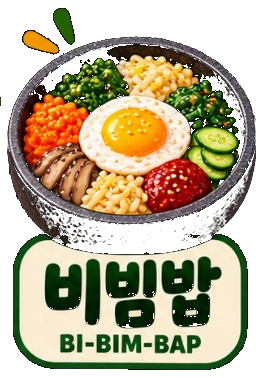
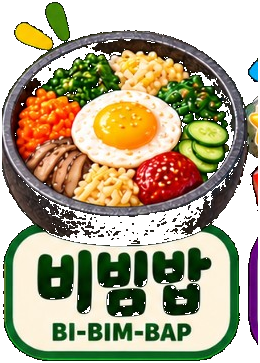
Replace gochujang with japchae and keep the stickers fully visible.

diff --git a/roulette.html b/roulette.html
@@ -113,10 +113,10 @@ body::before{
   position:absolute; left:0; width:max-content;
   transform:translate(-50%,-50%);
 }
-.pin.food{top:30%}
+.pin.food{top:42%}
 .pin.food img{
-  width:86px; height:auto; display:block;
-  filter:drop-shadow(0 3px 2px rgba(48,32,24,.22));
+  width:70px; height:auto; display:block; object-fit:contain;
+  filter:drop-shadow(0 2px 2px rgba(48,32,24,.18));
 }
 .lacquer{
   position:absolute; inset:4.2%; border-radius:50%; z-index:5; pointer-events:none;
@@ -211,8 +211,8 @@ body::before{
   transition:opacity .32s ease, transform .32s ease;
 }
 .result-in.hide{opacity:0; transform:translateY(6px)}
-.result-art{width:150px; height:186px}
-.result-art img,.modal-art img,.menu-art img{width:100%; height:100%; display:block; object-fit:contain}
+.result-art{width:170px; height:auto}
+.result-art img,.modal-art img,.menu-art img{width:100%; height:auto; display:block; object-fit:contain}
 .result-kicker{font-size:10px; letter-spacing:.18em; color:#d9c9b7; font-weight:800; margin-top:4px}
 .result h2{font-family:"Noto Serif KR",serif; font-size:34px; margin:4px 0 0; letter-spacing:-.03em; font-weight:800}
 .result .pt{font-size:13px; color:#f2d69c; font-weight:700; margin-top:2px}
@@ -259,7 +259,7 @@ body::before{
   background:#efe4cf; z-index:0;
 }
 .modal-top{display:flex; gap:16px; align-items:center; position:relative; z-index:1}
-.modal-art{width:168px; height:210px; flex:none}
+.modal-art{width:200px; height:auto; flex:none}
 .modal.show .modal-art{animation:rise .5s cubic-bezier(.16,1,.3,1) both}
 .modal-label{font-size:10px; letter-spacing:.16em; color:var(--red); font-weight:800}
 .modal h2{font-family:"Noto Serif KR",serif; font-size:40px; margin:2px 0 0; letter-spacing:-.03em; line-height:1; font-weight:800}
@@ -316,8 +316,8 @@ body::before{
   .title{font-size:22px}
   .stage{margin-top:2px}
   .wheelbox{width:min(100%, calc(100dvh - 230px), 420px)}
-  .pin.food{top:31%}
-  .pin.food img{width:58px}
+  .pin.food{top:42%}
+  .pin.food img{width:52px}
   .hub{width:64px; height:64px}
   .hub strong{font-size:13px}
   .spin{width:100%; min-width:0; margin-top:10px; padding:14px 16px}
@@ -327,7 +327,7 @@ body::before{
   .explain{font-size:12px}
   .menu,.footer{display:none}
   .modal-top{align-items:flex-start}
-  .modal-art{width:110px; height:140px}
+  .modal-art{width:150px; height:auto}
   .modal h2{font-size:28px}
   .modal-card{padding:18px}
 }
@@ -410,10 +410,10 @@ const foods=[
  {key:"kimchi",name:"KIMCHI",ko:"김치",pron:"김-치 · KIM-CHI",pt:"Um dos símbolos da mesa coreana.",desc:"Vegetais temperados e fermentados. O kimchi é um alimento tradicional que acompanha a refeição coreana e representa uma das culturas de fermentação mais conhecidas da Coreia.",prize:"Brinde"},
  {key:"gimbap",name:"GIMBAP",ko:"김밥",pron:"김-밥 · GIM-BAP",pt:"Arroz e ingredientes enrolados em alga.",desc:"Arroz e diversos ingredientes são enrolados em gim (alga) e cortados em rodelas. É uma comida prática, colorida e muito popular na vida cotidiana coreana.",prize:"Brinde"},
  {key:"mandu",name:"MANDU",ko:"만두",pron:"만-두 · MAN-DU",pt:"O tradicional dumpling coreano.",desc:"Mandu são dumplings recheados, preparados de diferentes maneiras, como cozidos, no vapor ou grelhados. São encontrados tanto em refeições quanto em momentos festivos.",prize:"Brinde"},
- {key:"gochujang",name:"GOCHUJANG",ko:"고추장",pron:"고-추-장 · GO-CHU-JANG",pt:"Pasta fermentada de pimenta vermelha.",desc:"Um dos tradicionais jang coreanos. Feito com ingredientes fermentados, o gochujang acrescenta sabor, cor e umami a muitos pratos coreanos.",prize:"Kit"},
+ {key:"japchae",name:"JAPCHAE",ko:"잡채",pron:"잡-채 · JAP-CHAE",pt:"Macarrão de batata-doce com legumes.",desc:"Fios de batata-doce salteados com legumes. É um prato colorido, servido tanto no dia a dia quanto em ocasiões especiais.",prize:"Brinde"},
  {key:"tteokbokki",name:"TTEOKBOKKI",ko:"떡볶이",pron:"떡-뽀-끼 · TTEOK-BBO-KKI",pt:"O famoso snack coreano de arroz.",desc:"Bolinhos de arroz cozidos em um molho marcante. É um dos alimentos de rua mais conhecidos da Coreia e ganhou popularidade internacional.",prize:"Brinde"},
  {key:"bulgogi",name:"BULGOGI",ko:"불고기",pron:"불-고-기 · BUL-GO-GI",pt:"Carne marinada e grelhada ao estilo coreano.",desc:"Fatias finas de carne são marinadas e cozidas ou grelhadas com um tempero à base de molho de soja e outros ingredientes. É um dos pratos coreanos mais conhecidos no exterior.",prize:"Kit"},
- {key:"bibimbap",name:"BIBIMBAP",ko:"비빔밥",pron:"비-빔-밥 · BI-BIM-BAP",pt:"Arroz misturado com diversos ingredientes.",desc:"Arroz servido com vegetais variados, ingredientes complementares e, muitas vezes, ovo e gochujang. A combinação de cores e sabores é uma de suas características marcantes.",prize:"Brinde"},
+ {key:"bibimbap",name:"BIBIMBAP",ko:"비빔밥",pron:"비-빔-밥 · BI-BIM-BAP",pt:"Arroz misturado com diversos ingredientes.",desc:"Arroz servido com vegetais variados, ingredientes complementares e, muitas vezes, ovo. A combinação de cores e sabores é uma de suas características marcantes.",prize:"Brinde"},
  {key:"special",name:"PRÊMIO",ko:"Especial",pron:"PRÊMIO · SPECIAL",pt:"Você encontrou o prêmio especial.",desc:"Esta casa vale o brinde especial preparado para a atividade do Centro Cultural Coreano no Brasil.",prize:"Brinde especial"}
 ];
 

diff --git a/index.html b/index.html
@@ -95,7 +95,7 @@
                     <label><input type="checkbox" name="foods" value="Bulgogi"><span>Bulgogi</span></label>
                     <label><input type="checkbox" name="foods" value="Bibimbap"><span>Bibimbap</span></label>
                     <label><input type="checkbox" name="foods" value="Mandu"><span>Mandu</span></label>
-                    <label><input type="checkbox" name="foods" value="Gochujang"><span>Gochujang</span></label>
+                    <label><input type="checkbox" name="foods" value="Japchae"><span>Japchae</span></label>
                     <label><input type="checkbox" name="foods" value="Nenhuma"><span>Nenhuma</span></label>
                 </div>
             </section>
@@ -111,7 +111,7 @@
                     <label><input type="checkbox" name="favorite" value="Bulgogi"><span>Bulgogi</span></label>
                     <label><input type="checkbox" name="favorite" value="Bibimbap"><span>Bibimbap</span></label>
                     <label><input type="checkbox" name="favorite" value="Mandu"><span>Mandu</span></label>
-                    <label><input type="checkbox" name="favorite" value="Gochujang"><span>Gochujang</span></label>
+                    <label><input type="checkbox" name="favorite" value="Japchae"><span>Japchae</span></label>
                     <label><input type="checkbox" name="favorite" value="Outra"><span>Outra</span></label>
                 </div>
             </section>
